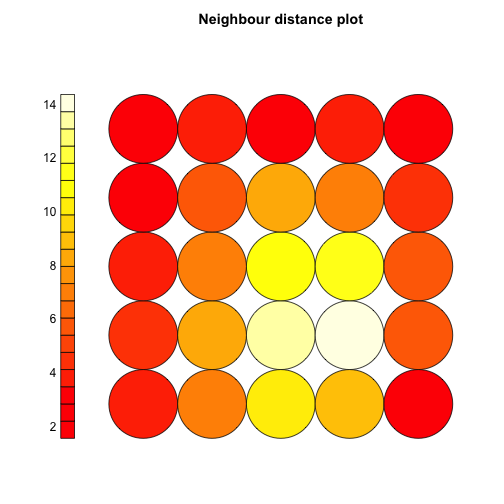
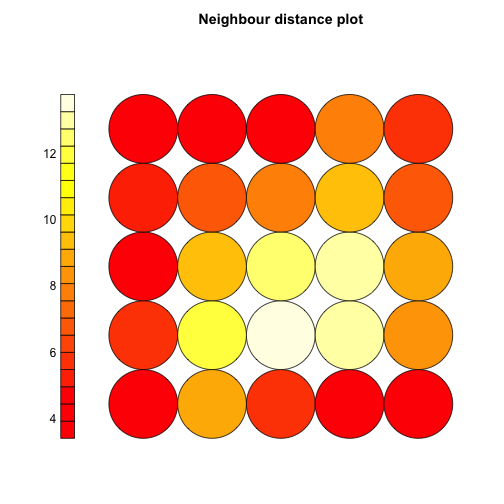
hugemongous commit :(

diff --git a/_posts/2016-11-19-inside_som.md b/_posts/2016-11-19-inside_som.md
@@ -1,19 +1,44 @@
 ---
 layout: post
-title:  "Inside a Self Organising Map"
-date:   2016-11-19
+title:  "Inside a Self-Organising Map"
+date:   2017-03-16
 comments: false
 categories: som
 ---
   
 
 
-When I first learned about Self Organising Maps I thought...cool name. Thereafter it became a way to try to understand data sets. Although I knew how, I never felt I quite understood why it works. So I have always been keen to look under the hood and see what the 'organisation' process looks like. So I forked [the Kohonen Package on the CRAN github mirror](https://github.com/cran/kohonen) and gave it a go.
+When I first learned about Self-Organising Maps I thought...cool name. Thereafter it became a way to try to understand the structure of data sets. Although I knew how they work, I never felt I quite understood why. I have always been keen to look under the hood and see what the 'organisation' process looks like. So I forked [the Kohonen Package on the CRAN github mirror](https://github.com/cran/kohonen) and gave it a go.
 
 # The SOM algorithm
-There is a good description of the Self Organising Map (hereafter SOM) algorithm in [Elements of Statistical Learning](http://statweb.stanford.edu/~tibs/ElemStatLearn/) but I will give a less formal description. Moreover the kohonen package has lots of parameters and functionality which I will avoid to keep things simple. I just want to give a feel for how it all works.
+The Self-Organising Map (hereafter SOM) algorithm was introduced by [Teuvo Kohonen](https://en.wikipedia.org/wiki/Teuvo_Kohonen) in the 1980s. There is a good description of it in [Elements of Statistical Learning](http://statweb.stanford.edu/~tibs/ElemStatLearn/). I will give a much less formal and complete description. The package [kohonen](https://cran.r-project.org/web/packages/kohonen/index.html) implements the algorithm in R. There are a lot of parameters and functionality which I will avoid describing in order to keep things simple. I just want to give a feel for how it all works.
 
-Say we have a bunch of unlabeled data with each observation consisting of n numeric variables. Each observation can be thought of as a point in $$\mathbb{R}^{n}$$. The [iris](https://en.wikipedia.org/wiki/Iris_flower_data_set) data set is a good example (provided you remove the species column to make the data unlabeled...).
+Say we have a bunch of unlabeled data with each observation consisting of n numeric variables. Each observation can be thought of as a point in $$\mathbb{R}^{n}$$. The [iris](https://en.wikipedia.org/wiki/Iris_flower_data_set) data set is a good example. Let's have a look at it.
+
+
+{% highlight r %}
+  # Use data.table for nice printing.
+  print(as.data.table(iris))
+{% endhighlight %}
+
+
+
+{% highlight text %}
+##      Sepal.Length Sepal.Width Petal.Length Petal.Width   Species
+##   1:          5.1         3.5          1.4         0.2    setosa
+##   2:          4.9         3.0          1.4         0.2    setosa
+##   3:          4.7         3.2          1.3         0.2    setosa
+##   4:          4.6         3.1          1.5         0.2    setosa
+##   5:          5.0         3.6          1.4         0.2    setosa
+##  ---                                                            
+## 146:          6.7         3.0          5.2         2.3 virginica
+## 147:          6.3         2.5          5.0         1.9 virginica
+## 148:          6.5         3.0          5.2         2.0 virginica
+## 149:          6.2         3.4          5.4         2.3 virginica
+## 150:          5.9         3.0          5.1         1.8 virginica
+{% endhighlight %}
+
+We can see it has five columns. Four of these describe dimensions of the flower petal and sepal. The last column tells us which species the flower belongs to. For the time being let's remove the species column and use the 4 numeric columns to create a Self-Organising Map. We'll make use of the species column again later on.
 
 
 {% highlight r %}
@@ -38,7 +63,7 @@ dt.iris.unlabeled
 ## 150:          5.9         3.0          5.1         1.8
 {% endhighlight %}
 
-So in this case we can think of each row as a vector in $$\mathbb{R}^{4}$$. The goal of SOM is to find `k` points in $$\mathbb{R}^{n}$$ that each act as some sort of representative of a different subset of the data. This is the aim of many clustering algorithms. SOM goes further by putting the representatives together in a 2 dimensional grid. Specifically the representatives are enumerated and arranged in a grid. For example if k is 16 we can have a 4x4 grid.
+So in this case we can think of each row as a vector in $$\mathbb{R}^{4}$$. The goal of SOM is to find k points in $$\mathbb{R}^{n}$$ that each act as some sort of representative of a different subset of the data. In the kohonen algorithm these are called _codes_. This is the aim of many clustering algorithms. SOM goes further by enumerating the codes and arranging them in a 2 dimensional grid. For example if k is 16 we can have a 4x4 grid.
 
 
 {% highlight r %}
@@ -47,25 +72,24 @@ So in this case we can think of each row as a vector in $$\mathbb{R}^{4}$$. The 
 
 ![plot of chunk plot-som-grid1](assets/img/inside_som/figure/plot-som-grid1-1.png)
 
-Once the representatives are arranged like this they all have neighbours. Each representative has 8 neighbours unless it it on the edge in which case it has 3 (you can also use a hexagonal grid where each representative has 6 neighbours). The SOM algorithm works so that neighbours on the SOM grid stay close to each other in $$\mathbb{R}^{n}$$. The representatives are determined in such a way that if the they are close to each other in the map, then they will be near to each other in $$\mathbb{R}^{n}$$. So the grid is kind of like a 'map' of the feature space. Elements of Statistical Learning describes this in detail and in particular states that SOM can be thought of as a constrained form of K-means.
+Once the codes are arranged like this they all have neighbours. Each code has 8 neighbours unless it it on the edge in which case it has 3 (you can also use a hexagonal grid where each code has 6 neighbours). The SOM algorithm works so that neighbours on the SOM grid stay close to each other in $$\mathbb{R}^{n}$$. The codes are determined in such a way so that if they are close to each other in the map, then they will be near to each other in $$\mathbb{R}^{n}$$. So the grid is kind of like a 'map' of the feature space. Elements of Statistical Learning describes this in detail. Interestingly it also states that SOM can be thought of as a constrained form of K-means, but that's not for now.
 
-Anyway, let's look get back to the `iris` data and briefly show how SOM can be useful.
+Let's get back to the `iris` data and briefly demonstrate how SOM can be useful.
 
 # Iris
 
-First let's generate a map. I must stress the point here is not to show how to best produce a map, but rather to show how an SOM can be useful. I have just used the default configuration. Also in the kohonen algorithm these are called 'codes'.
+First let's generate a map. I have just used the default configuration. The point here is not to show how to best produce a map, but rather to show how an SOM can be useful. 
 
 
 {% highlight r %}
 som.grid <- somgrid(5, 5)
 # center and scale the data since we want to treat all features as equally important
-dt.iris.unlabeled.scaled <- scale(dt.iris.unlabeled)
-som.model <- som(as.matrix(dt.iris.unlabeled), 
-                 som.grid, 
-                 n.hood='square')
+dt.iris.unlabeled.scaled <- as.data.table(scale(dt.iris.unlabeled))
+som.model <- som(as.matrix(dt.iris.unlabeled.scaled), 
+                 som.grid)
 {% endhighlight %}
 
-There are many different plots of the SOM but here is just one that I think shows how descriptive this technique can be. It uses the `plot.kohonen` `mapping` option to show the different species that have fallen into each SOM representative.
+The SOM has been produced using the unlabeled data. The plot below uses `plot.kohonen` with `type=mapping` to show the different species that have been assigned to each code i.e. we now layer the Species information on top of the map.
 
 
 {% highlight r %}
@@ -91,9 +115,11 @@ plot(som.model, type="mapping", labels=as.numeric(iris$Species),
 
 ![plot of chunk iris-example-plot1](assets/img/inside_som/figure/iris-example-plot1-1.png)
 
-Note that there is one code that doesn't have any flowers in it which isn't ideal - however this isn't really a problem for the current demonstration. From the plot we can make the following observations:
+(Note that there is one code that doesn't have any flowers in it which isn't ideal - however this isn't really a problem for the current demonstration.) 
 
-* The Setosa species (1s) seems to be separate from the other two species. This could be investigated further using the other kohonen plots. For instance we can plot the total distance of each code from it's neighbours with
+From the plot we can make the following observations:
+
+* The Setosa species (1s) seems to be separate from the other two species. This could be investigated further using the other kohonen plots. For instance we can plot the total distance of each code from it's neighbours with `type=dist.neighbours` . We can see a boundary of sorts around the 4 Setosa species codes indicating a gap between these codes and the others.
 
 
 {% highlight r %}
@@ -102,28 +128,29 @@ plot(som.model, type="dist.neighbours")
 
 ![plot of chunk iris-example-plot2](assets/img/inside_som/figure/iris-example-plot2-1.png)
 
-We can see a boundary of sorts around the 4 Setosa species codes indicating a gap between these codes and the others. The gap is populated by a handful of the versicolor species (2s).
-
-* The Versicolor and Virginica species can nearly be separated. We can use the plot to identify potentially interesting flowers by looking at codes with a mix of the two species.
+* The Versicolor and Virginica (2s and 3s) species can nearly be separated. We can use the plot to identify potentially interesting flowers by looking at codes with a mix of the two species. For instance in code 6 there are 9 Versicolor and 1 Virginica. This Virginica flower might be of interest given its so similar to many Versicolor flowers and is so far away from the other Virginica flowers.
 
 
 {% highlight r %}
 # Code 1 is on the bottom left with the code numbers incrementing horizontally 
 # up to code 5. Code 6 is above code 1 on the next row up.
-iris[som.model$unit.classif==16, ]
+iris[som.model$unit.classif==6, ]
 {% endhighlight %}
 
 
 
 {% highlight text %}
 ##     Sepal.Length Sepal.Width Petal.Length Petal.Width    Species
-## 73           6.3         2.5          4.9         1.5 versicolor
-## 84           6.0         2.7          5.1         1.6 versicolor
-## 120          6.0         2.2          5.0         1.5  virginica
-## 124          6.3         2.7          4.9         1.8  virginica
-## 127          6.2         2.8          4.8         1.8  virginica
-## 134          6.3         2.8          5.1         1.5  virginica
-## 147          6.3         2.5          5.0         1.9  virginica
+## 60           5.2         2.7          3.9         1.4 versicolor
+## 68           5.8         2.7          4.1         1.0 versicolor
+## 70           5.6         2.5          3.9         1.1 versicolor
+## 80           5.7         2.6          3.5         1.0 versicolor
+## 83           5.8         2.7          3.9         1.2 versicolor
+## 90           5.5         2.5          4.0         1.3 versicolor
+## 91           5.5         2.6          4.4         1.2 versicolor
+## 93           5.8         2.6          4.0         1.2 versicolor
+## 95           5.6         2.7          4.2         1.3 versicolor
+## 107          4.9         2.5          4.5         1.7  virginica
 {% endhighlight %}
 
 We can also use the `codes` option of `plot.kohonen` to see what each of the codes look like.
@@ -143,27 +170,203 @@ From this plot we can observe:
 
 # Inside an SOM
 
-Hoepfully the examples above show how an SOM can be useful. Now let's look at how the map 'organises' itself. Since we can't visualise 4 dimensions canonically let's simplify things just use two columns of the iris data set. Since going from 2 dimensions to 2 dimensions isn't very worthwhile, instead we will go from 2 dimensions to 1 i.e. we specify an 5x1 SOM grid.
+Hopefully the examples above show how an SOM can be useful for understanding a high dimensional data set. Now let's look at how the map 'organises' itself. Since we can't visualise 4 dimensions let's simplify things and just use two columns of the iris data set. Moreover, since reducing 2 dimensions to 2 dimensions isn't very worthwhile, instead let's reduce from 2 dimensions to 1 i.e. we specify an 5x1 SOM grid.
 
 
 {% highlight r %}
-dt.iris.unlabeled.scaled.sepal.only <- dt.iris.unlabeled.scaled[, c('Sepal.Length', 'Sepal.Width')]
+# Just use two dimensions
+dt.iris.unlabeled.scaled.sepal.only <- dt.iris.unlabeled.scaled[, .(Sepal.Length, Sepal.Width)]
+# Create a new grid
 som.grid <- somgrid(5, 1, topo = 'rectangular')
+# run SOM
 som.model <- som(as.matrix(dt.iris.unlabeled.scaled.sepal.only), 
                  som.grid)
+# Create mapping plot
 plot(som.model, type="mapping", labels=as.numeric(iris$Species),
      col=as.numeric(iris$Species))
 {% endhighlight %}
 
 ![plot of chunk 2d-iris-example](assets/img/inside_som/figure/2d-iris-example-1.png)
 
-This can only be known as a catepillar map...let's look at how it's formed
+This can only be known as a catepillar plot...let's look at how it's formed. 
+
+In the SOM algorithm the entire data set is shown to the algorithm many times - the default in the kohonen package (parameter `rlen`) is 100 times. The `iris` dataset has 150 observations, so in the examples above 15,000 data points are shown to the algorithm in total. 
+
+Each time a data point $$d$$ is shown to the algorithm, the position of the code nearest to the data point and the neighbours of this code are updated based on:
+
+$$x_i = x_i + \alpha (d_i - x_i)$$
+
+where $$x_i$$ and $$d_i$$ are the ith component of $$x$$ and $$d$$ in $$\mathbb{R}^{n}$$ and $$\alpha$$ is the learning rate. The default is for the learning rate $$\alpha$$ to decrease linearly from 0.05 to 0.01 over each pass of the full dataset. 
+
+Even though I knew how all this worked I wanted to better understand what this process looks like. So I [forked](https://github.com/itsakettle/kohonen) the kohonen package from the CRAN read only mirror and added some code to record the positions of the codes after each data point is shown to the algorithm. The result was then used to create an animation of the map organising itself. 
+
+# Animating
+
+The _animation_ package in R is great for animating! To animate we need a function that can create a plot of the codes of the SOM at a given snapshot. Here's the function I used, it's a bit messy but does the job. You can see the results below.
+
+
+{% highlight r %}
+# Plots the given codes, the current and previous data point shown to the SOM
+# and also some annotation to explain what's going on. dt is the full dataset. 
+PlotSOMSnapshot <- function(dt, codes, current, previous, r, next.data.point=TRUE) {
+  # Create a copy of dt so that we can add columns without worrying about
+  # oife outside this function.
+  dt.anim <- copy(dt)
+  # Add columns to handle current and previous data points.
+  dt.anim[, the.datum := ifelse(.I==current, 'current', ifelse(.I==previous, 'previous', 'no'))]
+  dt.anim[, the.size := ifelse(.I==current, 6, ifelse(.I==previous, 3, 2))]
+  the.colours <- c('current'='red', 'previous'='purple', 'no'='grey')
+  
+  # Prep the codes
+  dt.codes <- as.data.table(codes)
+  dt.codes[, code := 1:.N]
+  setnames(dt.codes, c('Sepal.Length', 'Sepal.Width', 'code'))
+
+  # Create plot
+  p <- ggplot(dt.anim, aes(x=Sepal.Length, y=Sepal.Width)) +
+    geom_label(data=dt.codes, 
+               mapping=aes(x=Sepal.Length, y=Sepal.Width, label=code), 
+               size=4) +
+    annotate('text', 
+             x=-0.9, 
+             y=-2.5, 
+             label=paste0('Data shown to SOM ', round(r, 2), ' times.'),
+             size=5) +
+    theme(panel.grid.major = element_blank(), 
+          panel.grid.minor = element_blank(),
+          axis.line=element_blank(),
+          axis.text.x=element_blank(),
+          axis.text.y=element_blank(),
+          axis.ticks=element_blank(),
+          axis.title.x=element_blank(),
+          axis.title.y=element_blank(),
+          legend.position="none")
+  
+  # Highlight the next and previous data points if we want
+  if (next.data.point) {
+    p <- p + scale_color_manual(values=the.colours) +
+          annotate('text', x= 1, y=-2.5, label='Next', size=5, color='red') +
+          annotate('text', x= 2, y=-2.5, label='Previous', size=5, color='purple') +
+          geom_point(aes(color=the.datum, size=the.size))
+  } else {
+        p <- p + geom_point(color='grey')
+  }
+  
+  plot(p)
+}
+{% endhighlight %}
 
 # One observation at a time
+First let's look at 20 consecutive iterations of the algorithm at different stages of the learning process. This will help us get a feel for 
 
-# Varying the learning rate
+* the nearest code to the data point moving towards the data point
+* the neighbours of the nearest code moving towards the data point
+* the learning rate changing over the course of the algorithm
+
+Here we use the `SaveVideo` function of the animation package but there appear to be functions to create animations in many other formats. You pass in a block of code that creates the plots to be used in the animation. Here I make use of the snapshot functionality I added to my forked version of the kohonen package. The list returned by the forked version of the algorithm has two extra elements 
+
+* `code_snapshots` which is a large matrix containing the positions of each code at each iteration
+* `code_snapshots_datum` which contains the coordinates of the data point shown to the algorithm at each iteration. I decided to call a data point a datum here...not sure why.
+
+The code below isn't the prettiest, but it gets the job done and the resulting animations seem to make sense.
+
+``` r
+dt.iris.unlabeled.scaled.sepal.only[, code := som.model$unit.classif]
+
+saveVideo({
+  for (i in 500:520) AnimateSOM(dt.iris.unlabeled.scaled.sepal.only,
+                               som.model$code_snapshots[,,i],
+                               som.model$code_snapshots_datum[i+1],
+                               som.model$code_snapshots_datum[i],
+                               i/nrow(dt.iris.unlabeled.scaled.sepal.only))
+}, '~/Google Drive/som_anim_small_one.mp4')
+
+
+saveVideo({
+  for (i in 1500:1520) AnimateSOM(dt.iris.unlabeled.scaled.sepal.only,
+                               som.model$code_snapshots[,,i],
+                               som.model$code_snapshots_datum[i+1],
+                               som.model$code_snapshots_datum[i],
+                               i/nrow(dt.iris.unlabeled.scaled.sepal.only))
+}, '~/Google Drive/som_anim_small_two.mp4')
+
+saveVideo({
+  for (i in 4500:4520) AnimateSOM(dt.iris.unlabeled.scaled.sepal.only,
+                               som.model$code_snapshots[,,i],
+                               som.model$code_snapshots_datum[i+1],
+                               som.model$code_snapshots_datum[i],
+                               i/nrow(dt.iris.unlabeled.scaled.sepal.only))
+}, '~/Google Drive/som_anim_small_three.mp4')
+
+```
+
+First we look at the SOM learn early on in the algorithm. We can see at the bottom of the video that the entire data set has been shown to the SOM 3 times so far and we are a third of a way through the fourth run. The big red dot is the next data point that will be shown to the algorithm. The nearest code to the red dot moves towards it and also pulls some of its neighbours along with it. The purple dot is the previous data point.
+
+<iframe width="560" height="315" src="https://www.youtube.com/embed/4apSMKWiGs8?rel=0" frameborder="0" allowfullscreen></iframe>
+
+The next video starts with the full data set having already been shown to the algorithm 10 times and we are starting the 11th run. The learning rate is lower now and we can see that codes positions do not update as much as before. 
+
+<iframe width="560" height="315" src="https://www.youtube.com/embed/virnNGZq4ao?rel=0" frameborder="0" allowfullscreen></iframe>
+
+Next the video starts with the full data set having already been shown to the algorithm 30 times and we are starting the 31st run. The learning rate is much lower now and we can see that the codes move very little.
+
+<iframe width="560" height="315" src="https://www.youtube.com/embed/8WDAlF4wO80?rel=0" frameborder="0" allowfullscreen></iframe>
+
+# The Bigger Picture
+
+Behind the scenes the `som` algorithm in the kohonen package keeps track of the mean distance to the nearest code for each full pass through of the dataset.
+
+
+{% highlight r %}
+plot(som.model, type='changes')
+{% endhighlight %}
+
+![plot of chunk plot-code-changes](assets/img/inside_som/figure/plot-code-changes-1.png)
+
+We can see that the biggest decrease in this happens roughly between run 20 and run 40. So let's look at a video of this but this time looking from run to run rather than from observation to observation.
+
+``` r
+full.data <- seq(from=0 ,to=nrow(dt.iris.unlabeled)*100 , by=nrow(dt.iris.unlabeled))
+full.data[1] <- 1
+# Note the interval parameter used here speeds up the animation!
+saveVideo({
+  for (i in full.data) PlotSOMSnapshot(dt.iris.unlabeled.scaled.sepal.only,
+                               som.model$code_snapshots[,,i],
+                               som.model$code_snapshots_datum[i+1],
+                               som.model$code_snapshots_datum[i],
+                               i/nrow(dt.iris.unlabeled.scaled.sepal.only),
+                               next.data.point=FALSE)
+}, '~/Google Drive/som_anim_full_passes.mp4', interval=0.25)
+
+```
+
+First we look at a video of run 1 to run 100 and we can see how the codes set into their final positions around run 35.
+
+<iframe width="560" height="315" src="https://www.youtube.com/embed/y7S4b6VM2gQ?rel=0" frameborder="0" allowfullscreen></iframe>
+
+Finally let's look at run 24 to 35 at an observation by observation level. In particular, pay attention to run 30 onwards as this is where the codes find their final positions. There appears to be a crucial few iterations where the codes click into their final positions.
+
+``` r
+the.big.change.data <- seq(from=nrow(dt.iris.unlabeled)*25 ,to=nrow(dt.iris.unlabeled)*35 , by=1)
+saveVideo({
+  for (i in the.big.change.data) PlotSOMSnapshot(dt.iris.unlabeled.scaled.sepal.only,
+                               som.model$code_snapshots[,,i],
+                               som.model$code_snapshots_datum[i+1],
+                               som.model$code_snapshots_datum[i],
+                               i/nrow(dt.iris.unlabeled.scaled.sepal.only),
+                               next.data.point=TRUE)
+}, '~/Google Drive/som_anim_approaching_convergence.mp4', interval=0.10)
+
+```
 
 
 
+<iframe width="560" height="315" src="https://www.youtube.com/embed/vLxUYZnRnCw?rel=0" frameborder="0" allowfullscreen></iframe>
 
+# Knowledge vs Understanding
+For me this little experiment is a demonstration of knowledge vs understanding. [This](https://www.youtube.com/watch?v=MFzDaBzBlL0) video from Smarter Every Day explains this nicely and there is also an analogous clicking into place moment. 
+
+I knew how a Self-Organising Map works but I didn't understand. Looking under the hood certainly helped me to understand why the algorithm works. I found it very useful to see how the codes and their neighbours all move together and how this is key to creating a 'map'. By seeing the position of the codes as the algorithm progresses we can get a really good feel for how the algorithm is working. 
+
+In the iris example there appears to be a prolonged period where the codes are being dragged all over the place - roughly 30 full passes of the data. Then suddenly the codes click into place. I find it interesting how the repeated application of simple operations can lead to this complex behaviour. I won't attempt to explain this any further. I would much rather leave you with the impression of the videos above.
 
